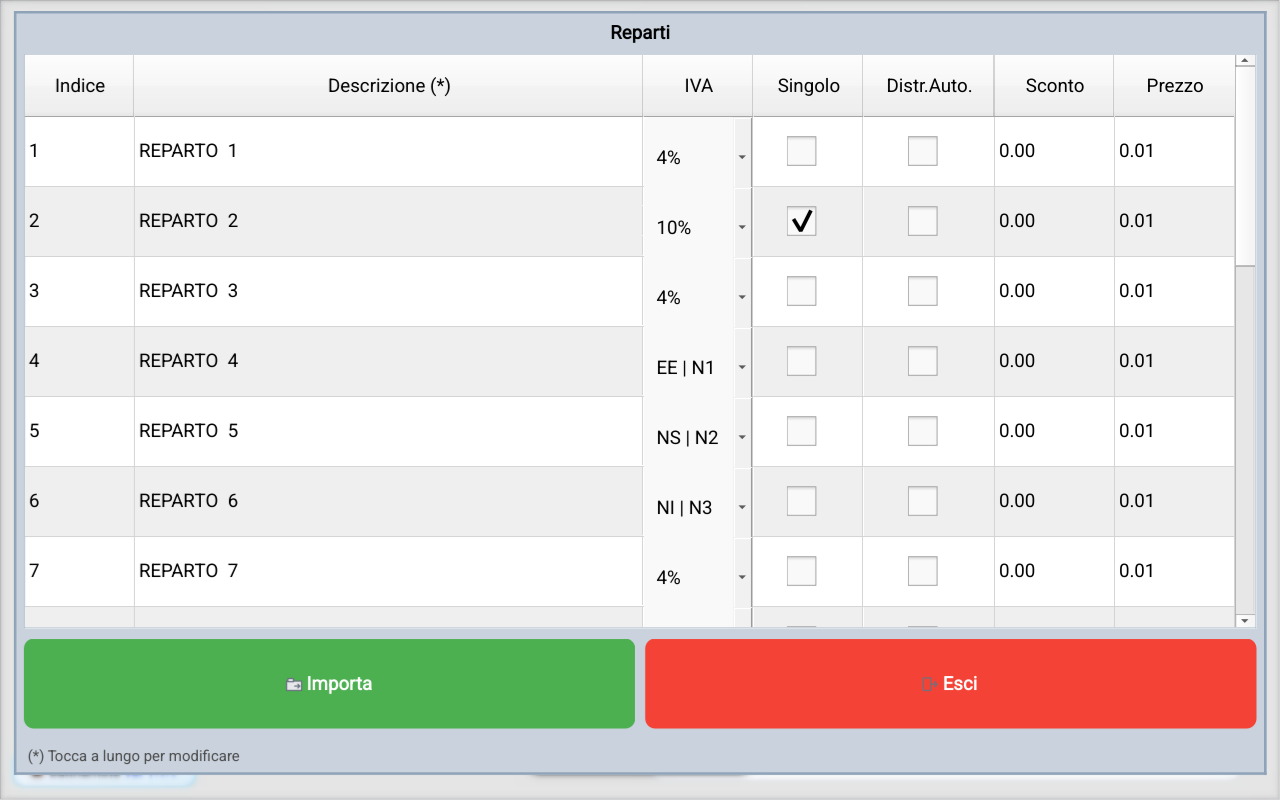
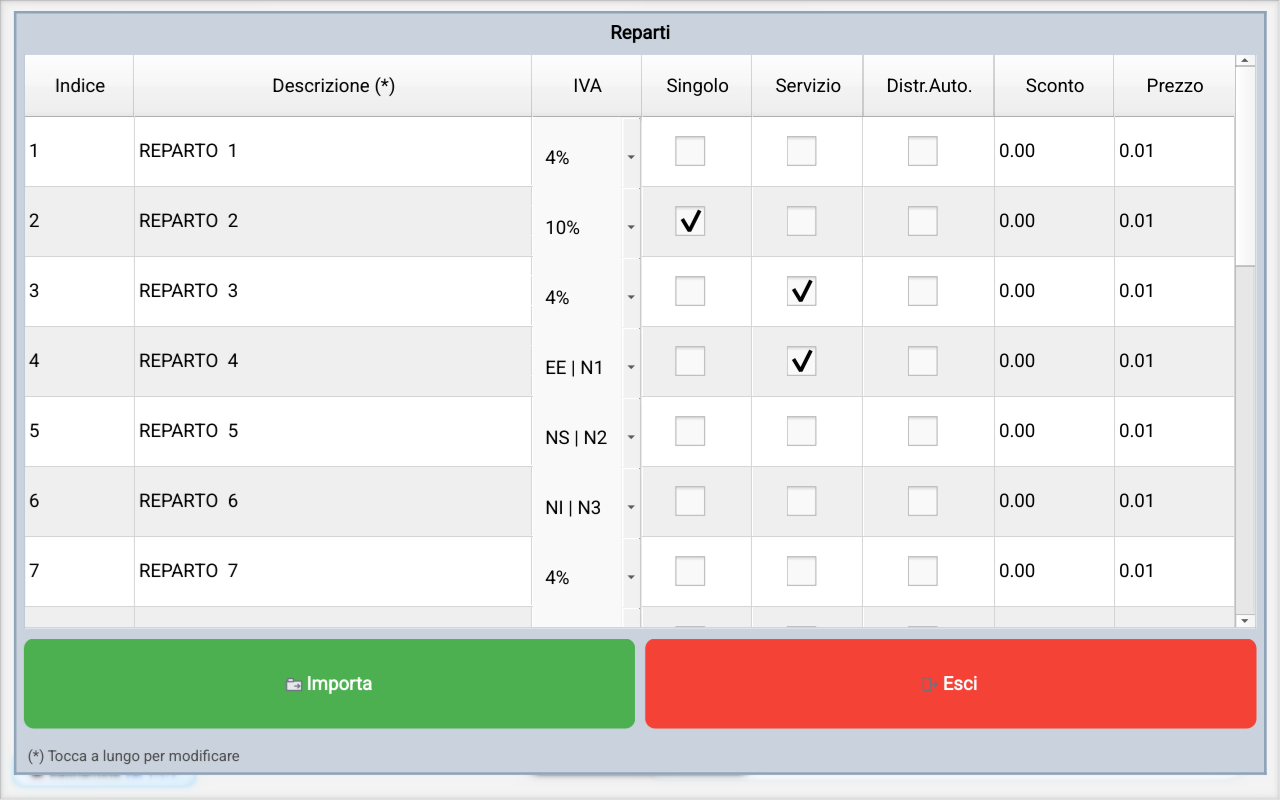
docs(reparti): ricattura screenshot e allinea riferimento immagine

diff --git a/impostazioni_prog_reparti.html b/impostazioni_prog_reparti.html
@@ -271,7 +271,7 @@
           <div class="alert alert-warning" role="alert">
             Le modifiche reparti vengono sincronizzate con la cassa.
           </div>
-          <img src="assets/img/editremote/reparti.jpeg" class="img-fluid rounded border" alt="Programmazione reparti">
+          <img src="assets/img/editremote/reparti.png" class="img-fluid rounded border" alt="Programmazione reparti">
         </div>
       </div>
     </section>
